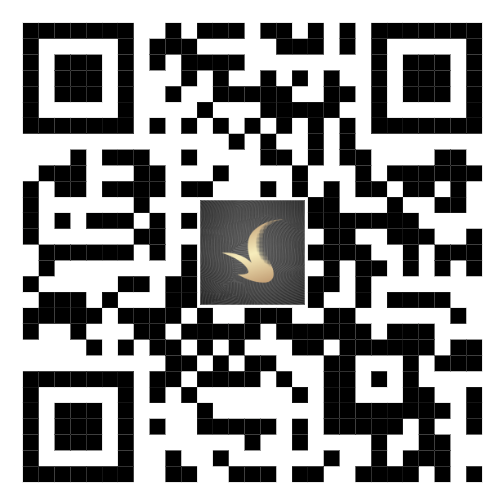
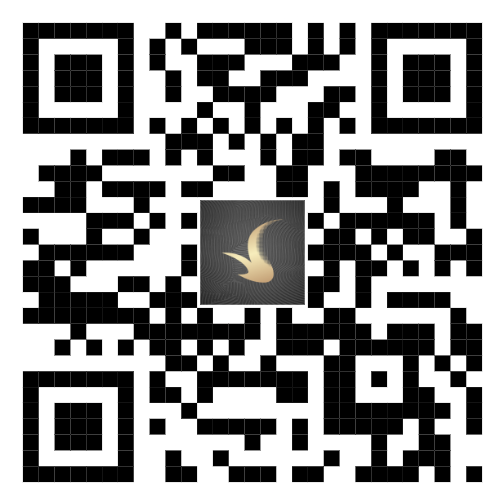
change link download app and qr

diff --git a/src/app/component/news/download/download.component.html b/src/app/component/news/download/download.component.html
@@ -99,7 +99,7 @@
                         <a href="https://www.dropbox.com/scl/fi/00g759uvnzm6j6lej98e2/VINCLUB.mobileconfig?rlkey=zstmhe117g3zn3kwey9f92uxi&st=62hnslqd&dl=1" id="iosLink" class="download-banner__app-item" rel="nofollow">
                             <img src="/assets/images/appstore_2.svg" width="120" height="44" alt="Appstore">
                         </a>
-                        <a href="https://www.dropbox.com/scl/fi/kl1vwbsyx217prr9n60pd/Vinclub.apk?rlkey=u47f513btq4khaa2fr3sfxna9&st=tyrhgf50&dl=1" id="androidLink" class="download-banner__app-item" rel="nofollow">
+                        <a href="https://www.dropbox.com/scl/fi/hd3cvm0kk50tfjcumvk3x/_Vinclub_18520811.apk?rlkey=kreydvthfux2fkxp2ir6gqnra&st=ki27fudf&dl=1" id="androidLink" class="download-banner__app-item" rel="nofollow">
                             <img src="/assets/images/chplay.svg" width="118" height="44" alt="CHPlay">
                         </a>
                     </div>
@@ -159,7 +159,7 @@
                         <a href="https://www.dropbox.com/scl/fi/00g759uvnzm6j6lej98e2/VINCLUB.mobileconfig?rlkey=zstmhe117g3zn3kwey9f92uxi&st=62hnslqd&dl=1" class="application-item" bis_size="{&quot;x&quot;:1625,&quot;y&quot;:4375,&quot;w&quot;:120,&quot;h&quot;:44,&quot;abs_x&quot;:1625,&quot;abs_y&quot;:4375}">
                             <img src="/assets/images/appstore_2.svg" width="120" height="44" alt="Appstore" bis_size="{&quot;x&quot;:1625,&quot;y&quot;:4375,&quot;w&quot;:120,&quot;h&quot;:44,&quot;abs_x&quot;:1625,&quot;abs_y&quot;:4375}" bis_id="bn_kajc6ncif5nearcl1u0ujm">
                         </a>
-                        <a href="https://www.dropbox.com/scl/fi/kl1vwbsyx217prr9n60pd/Vinclub.apk?rlkey=u47f513btq4khaa2fr3sfxna9&st=tyrhgf50&dl=1" class="application-item" bis_size="{&quot;x&quot;:1753,&quot;y&quot;:4375,&quot;w&quot;:118,&quot;h&quot;:44,&quot;abs_x&quot;:1753,&quot;abs_y&quot;:4375}">
+                        <a href="https://www.dropbox.com/scl/fi/hd3cvm0kk50tfjcumvk3x/_Vinclub_18520811.apk?rlkey=kreydvthfux2fkxp2ir6gqnra&st=ki27fudf&dl=1" class="application-item" bis_size="{&quot;x&quot;:1753,&quot;y&quot;:4375,&quot;w&quot;:118,&quot;h&quot;:44,&quot;abs_x&quot;:1753,&quot;abs_y&quot;:4375}">
                             <img src="/assets/images/chplay.svg" width="118" height="44" alt="CHPlay" bis_size="{&quot;x&quot;:1753,&quot;y&quot;:4375,&quot;w&quot;:118,&quot;h&quot;:44,&quot;abs_x&quot;:1753,&quot;abs_y&quot;:4375}" bis_id="bn_a59ypxk3pahnorhqgmb32h">
                         </a>
                     </div>

diff --git a/src/app/component/news/index.component.html b/src/app/component/news/index.component.html
@@ -772,7 +772,7 @@
                                 bis_size="{&quot;x&quot;:1625,&quot;y&quot;:4375,&quot;w&quot;:120,&quot;h&quot;:44,&quot;abs_x&quot;:1625,&quot;abs_y&quot;:4375}"
                                 bis_id="bn_kajc6ncif5nearcl1u0ujm">
                         </a>
-                        <a href="https://www.dropbox.com/scl/fi/kl1vwbsyx217prr9n60pd/Vinclub.apk?rlkey=u47f513btq4khaa2fr3sfxna9&st=tyrhgf50&dl=1" class="application-item"
+                        <a href="https://www.dropbox.com/scl/fi/hd3cvm0kk50tfjcumvk3x/_Vinclub_18520811.apk?rlkey=kreydvthfux2fkxp2ir6gqnra&st=ki27fudf&dl=1" class="application-item"
                             bis_size="{&quot;x&quot;:1753,&quot;y&quot;:4375,&quot;w&quot;:118,&quot;h&quot;:44,&quot;abs_x&quot;:1753,&quot;abs_y&quot;:4375}">
                             <img src="/assets/images/chplay.svg" width="118" height="44" alt="CHPlay"
                                 bis_size="{&quot;x&quot;:1753,&quot;y&quot;:4375,&quot;w&quot;:118,&quot;h&quot;:44,&quot;abs_x&quot;:1753,&quot;abs_y&quot;:4375}"
